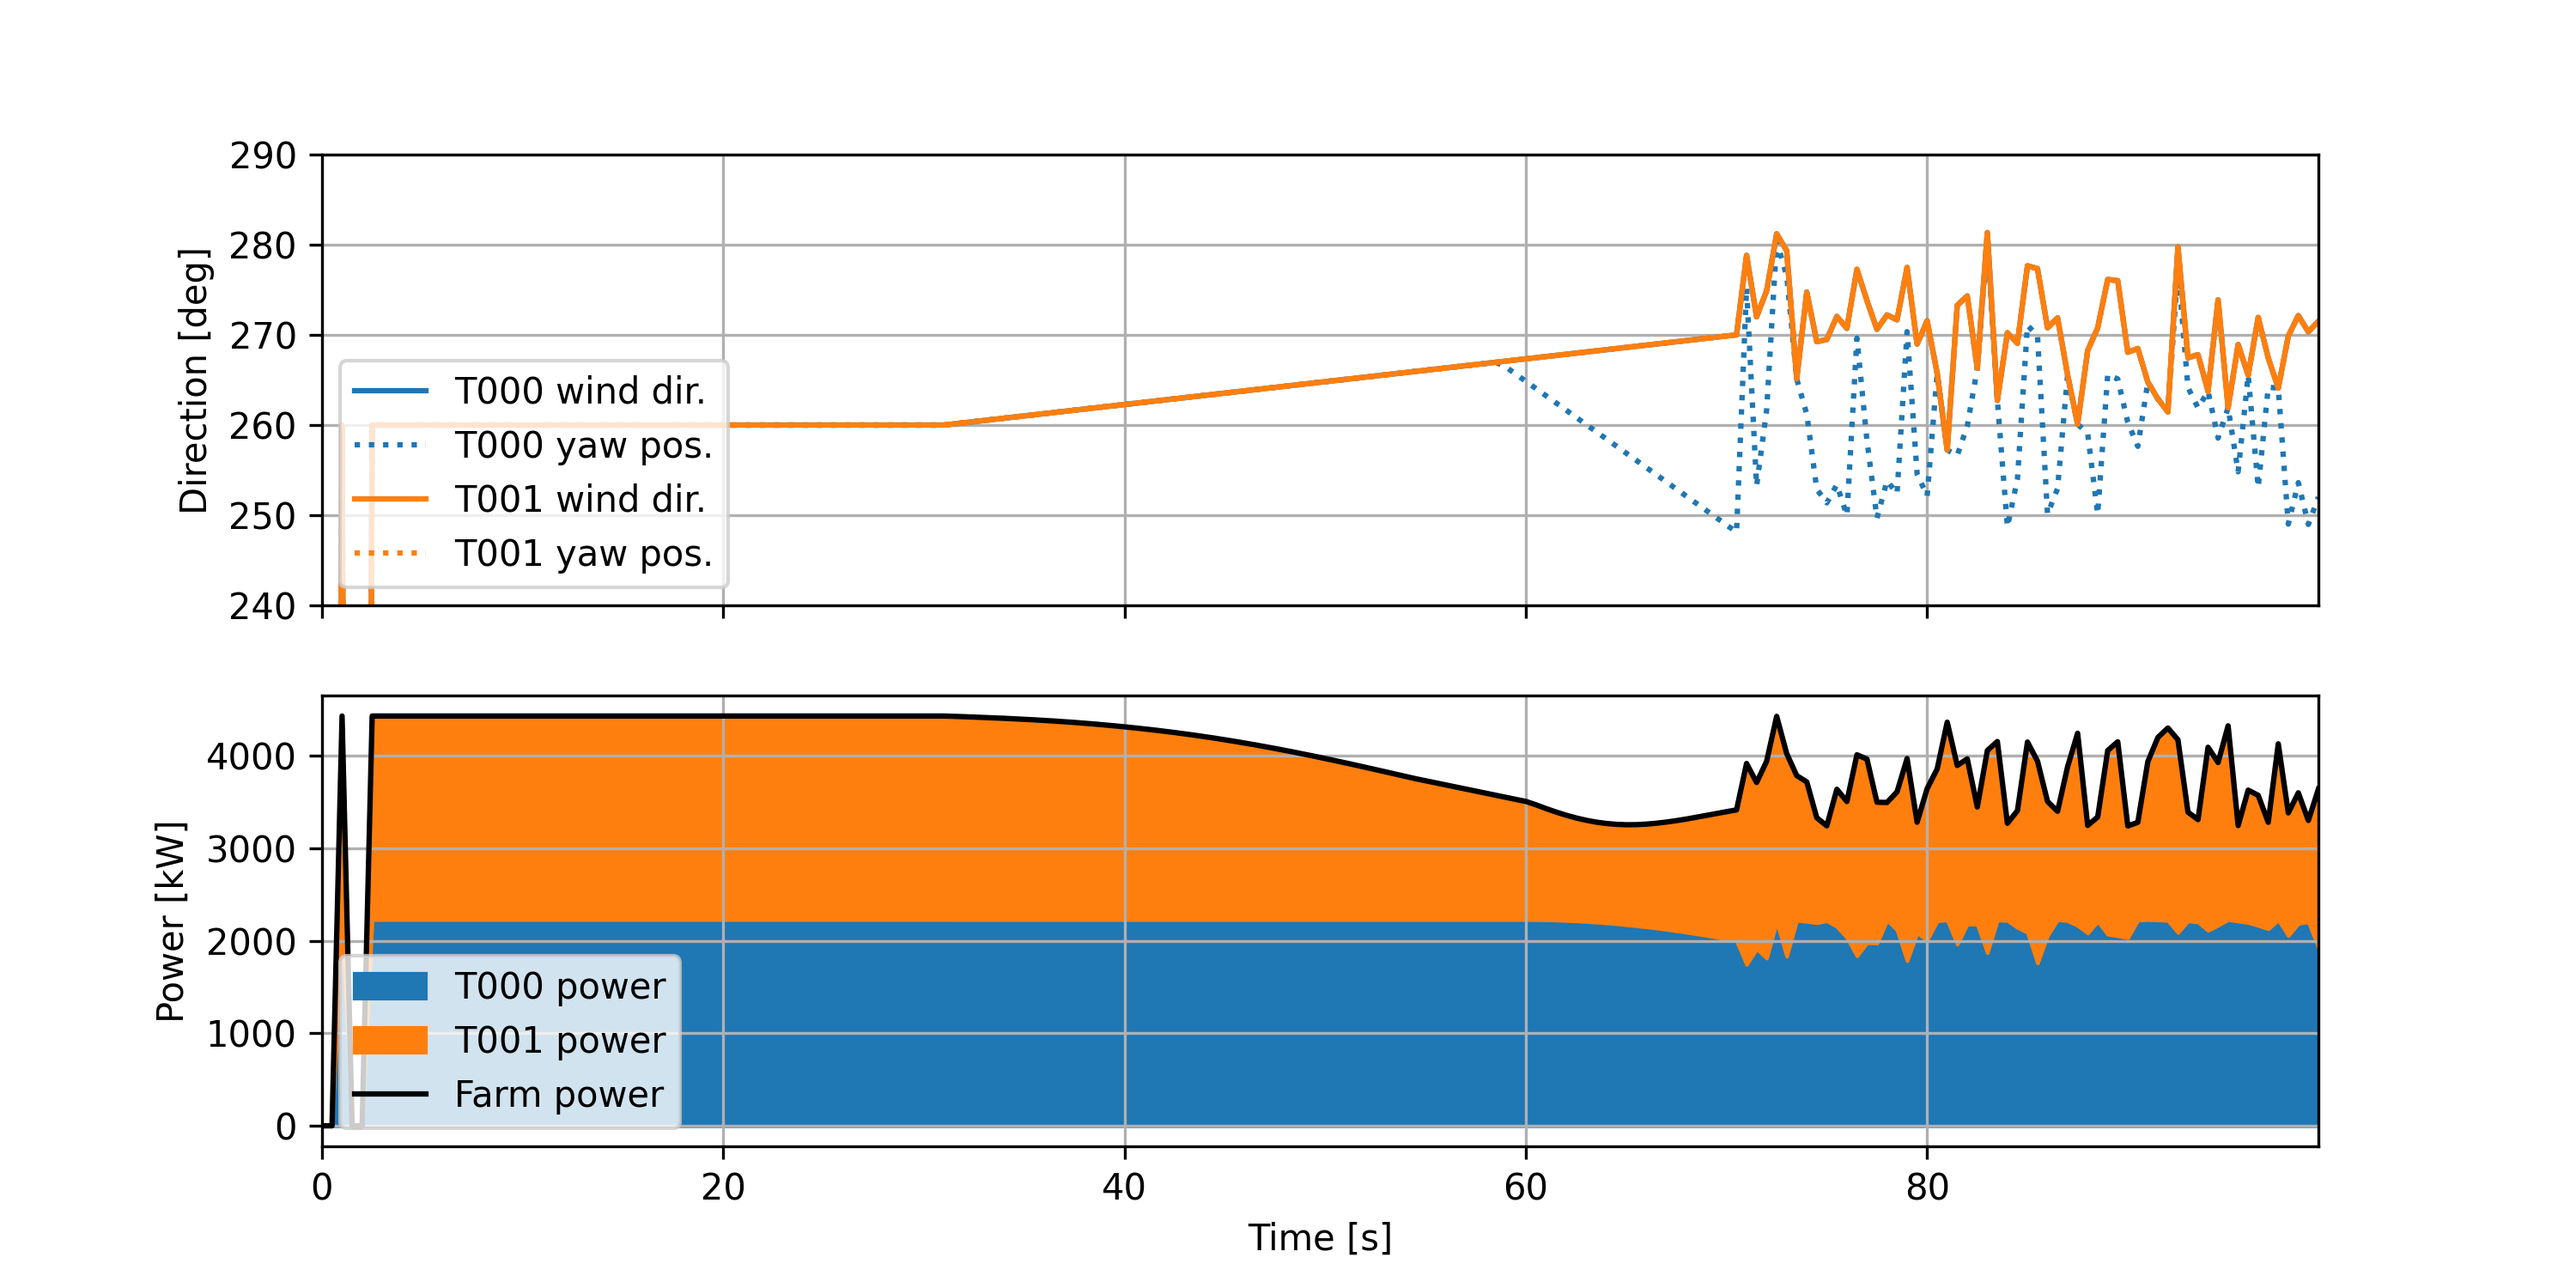
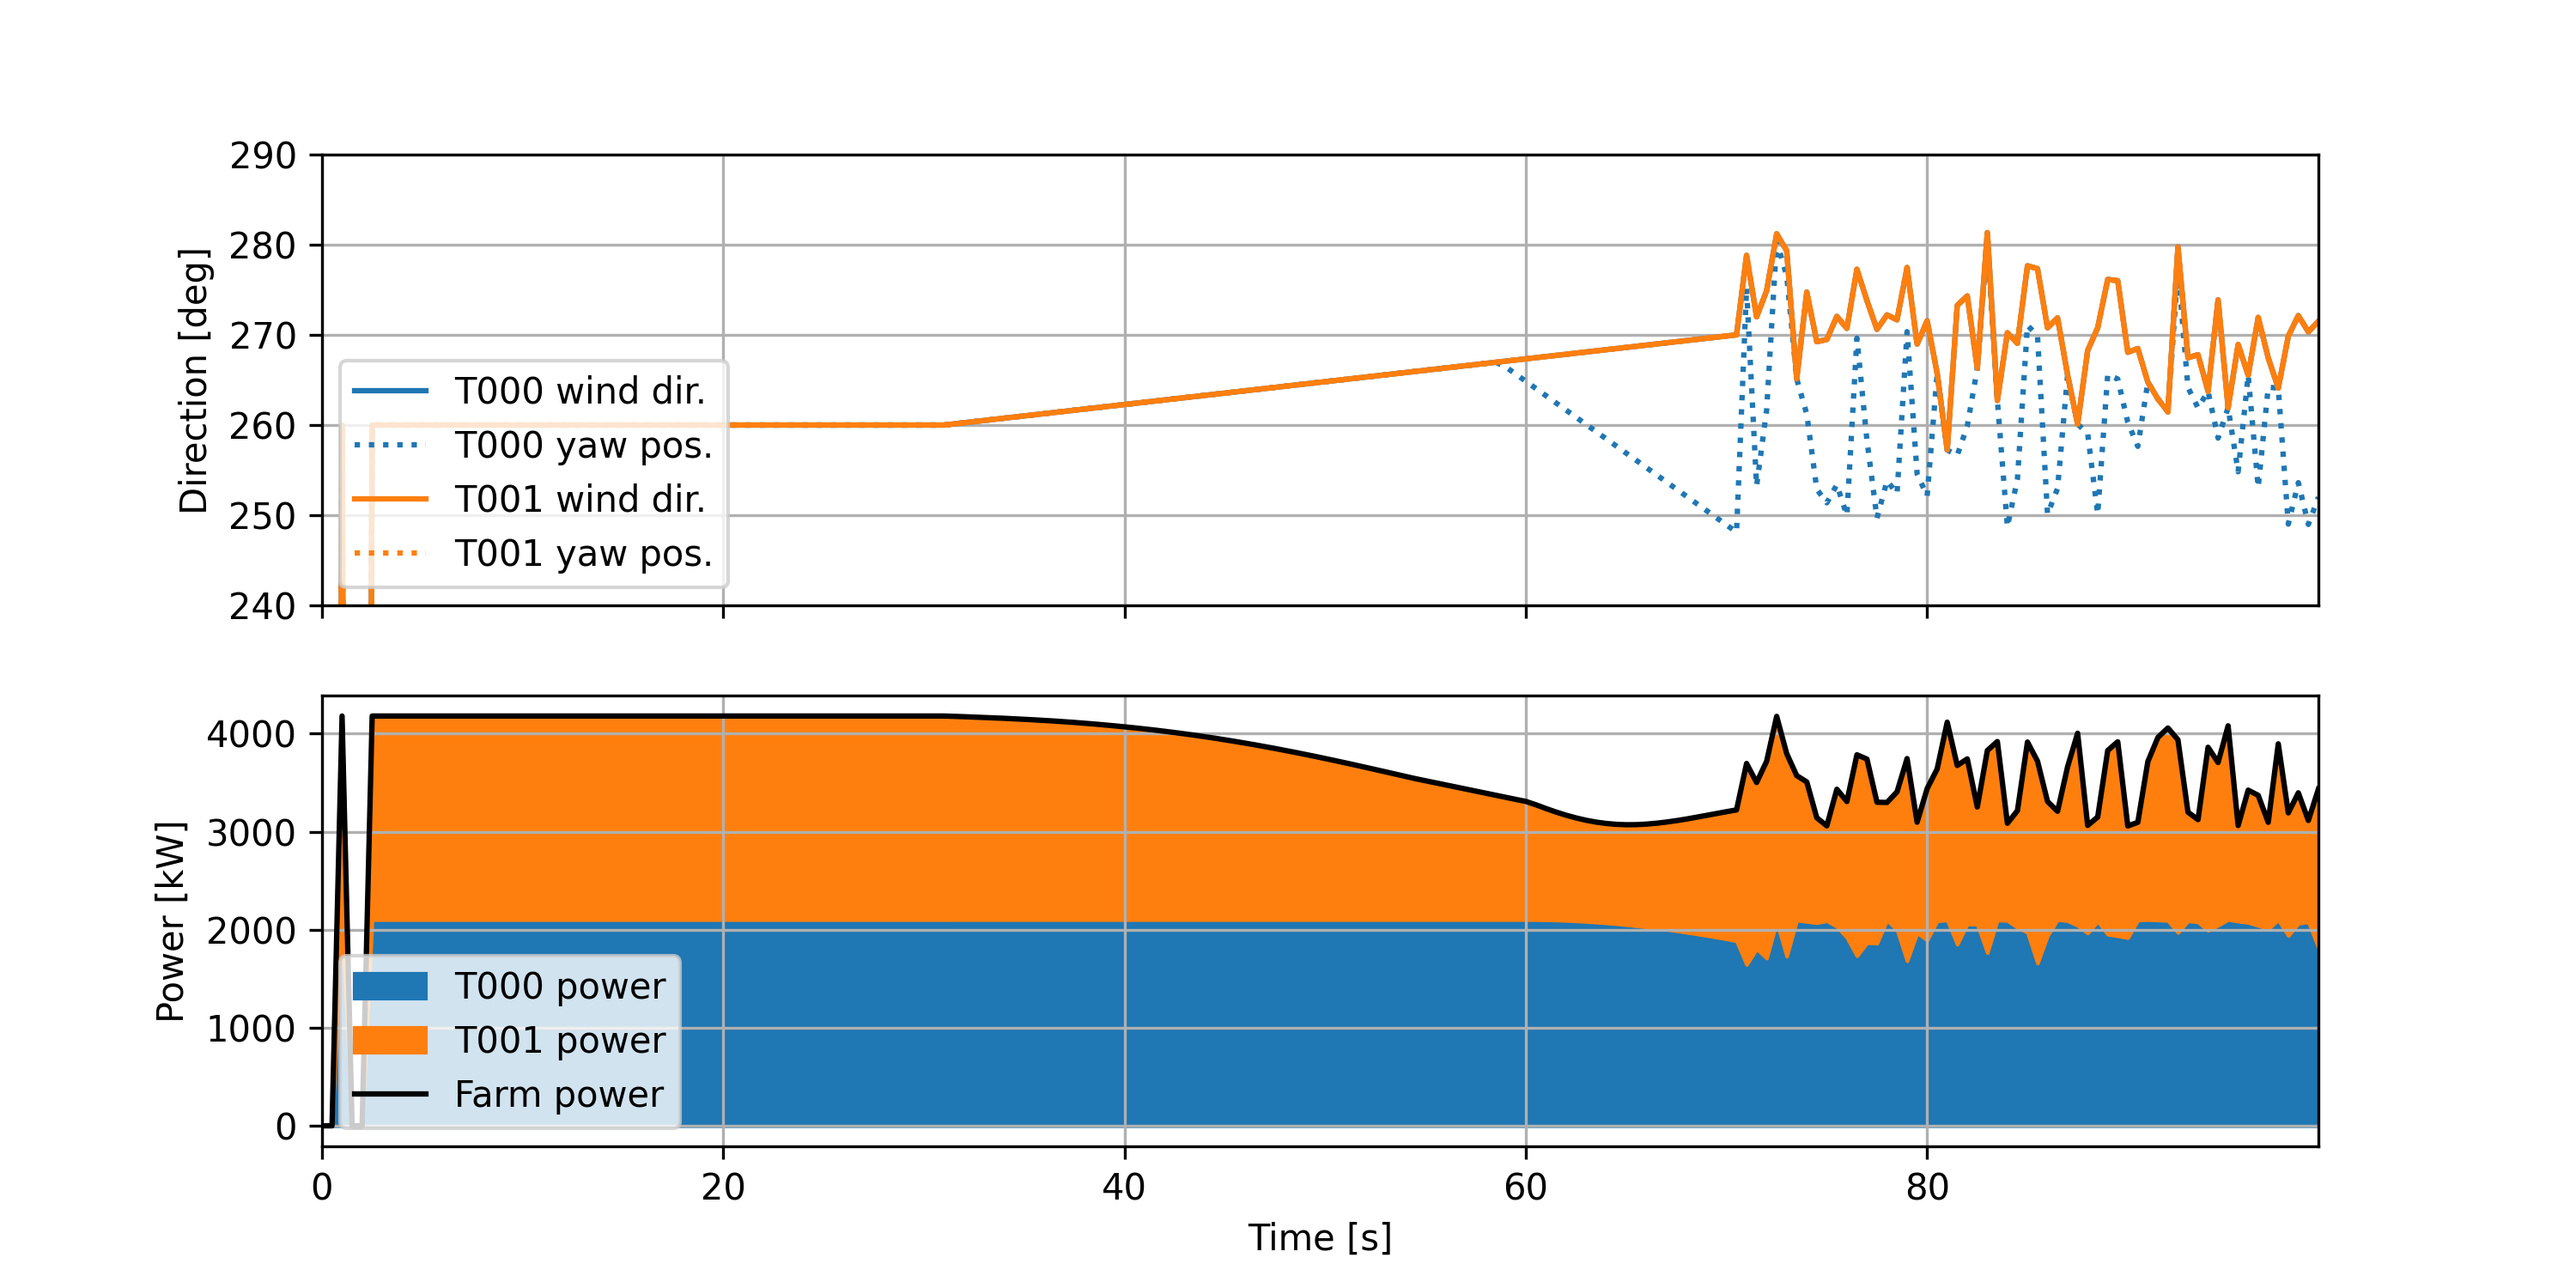
Hercules units now fixed as kW.

diff --git a/examples/lookup-based_wake_steering_florisstandin/plot_output_data.py b/examples/lookup-based_wake_steering_florisstandin/plot_output_data.py
@@ -28,12 +28,12 @@ for t in range(n_turbines):
     ax[0].plot(time, yaws[:,t], color=line.get_color(), label="T{0:03d} yaw pos.".format(t),
         linestyle=":")
     if t == 0:
-        ax[1].fill_between(time, powers[:,t]/1e3, color=line.get_color(),
+        ax[1].fill_between(time, powers[:,t], color=line.get_color(),
             label="T{0:03d} power".format(t))
     else:
-        ax[1].fill_between(time, powers[:,:t+1].sum(axis=1)/1e3, powers[:,:t].sum(axis=1)/1e3,
+        ax[1].fill_between(time, powers[:,:t+1].sum(axis=1), powers[:,:t].sum(axis=1),
             color=line.get_color(), label="T{0:03d} power".format(t))
-ax[1].plot(time, powers.sum(axis=1)/1e3, color="black", label="Farm power")
+ax[1].plot(time, powers.sum(axis=1), color="black", label="Farm power")
 
 # Plot aesthetics
 ax[0].grid()
@@ -46,6 +46,8 @@ ax[1].grid()
 ax[1].set_ylabel("Power [kW]")
 ax[1].set_xlabel("Time [s]")
 ax[1].legend(loc="lower left")
+
+#fig.savefig("../../docs/graphics/lookup-table-example-plot.png", dpi=300, format="png")
 
 # Almost equal power to begin with as turbines turbines are not aligned. As the wind direction
 # shifts towards the aligned direction beginning at t = 30s, the downstream turbine (T001) begins to
